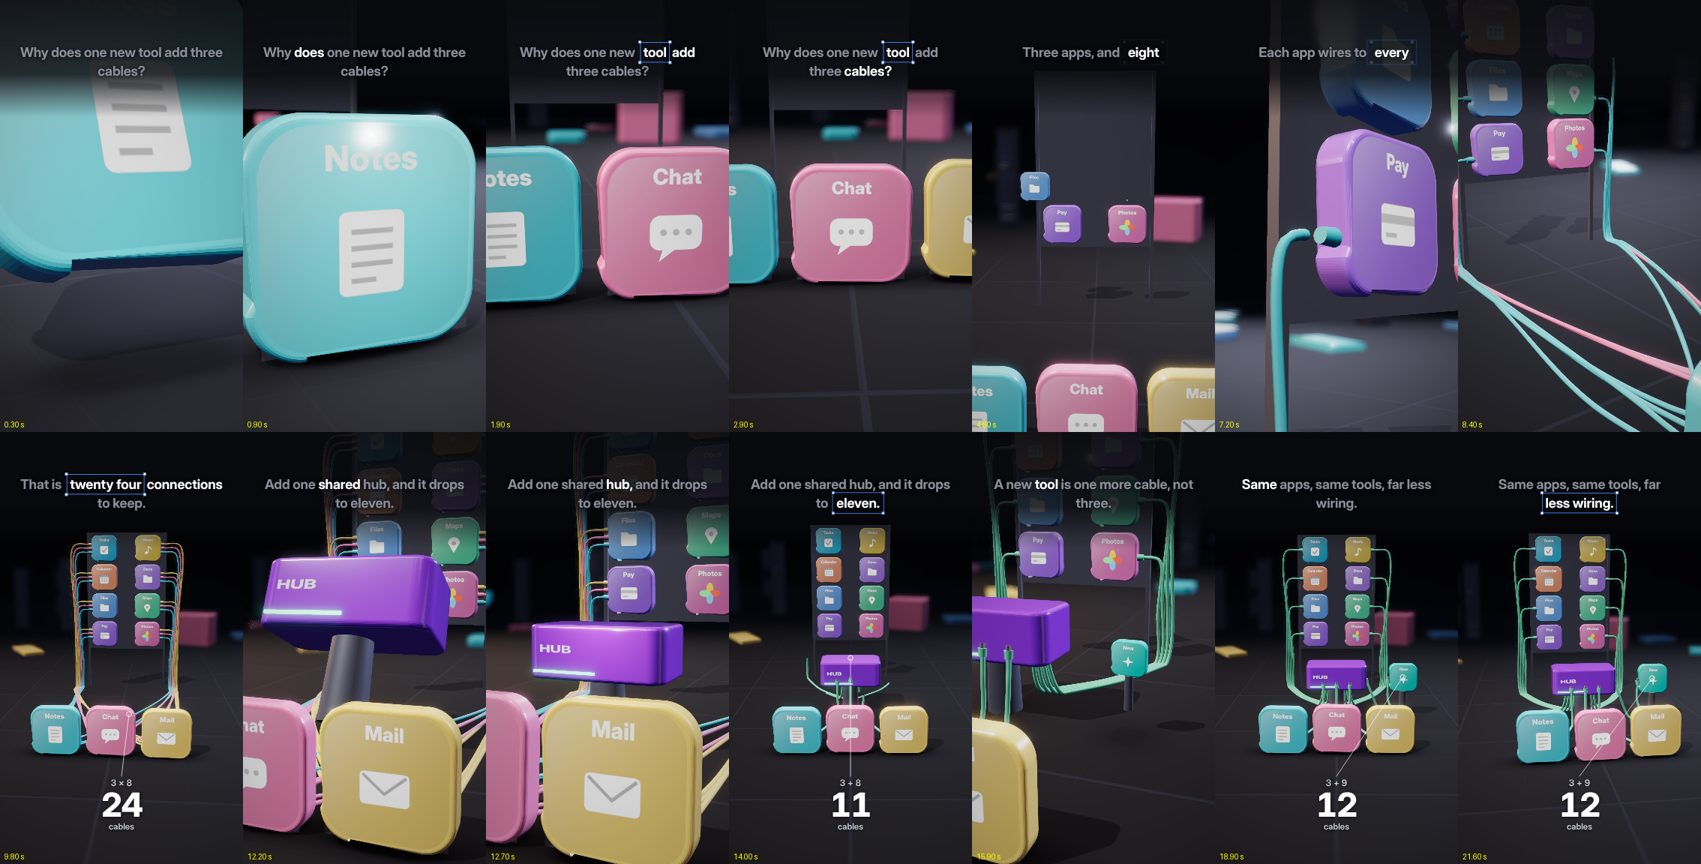
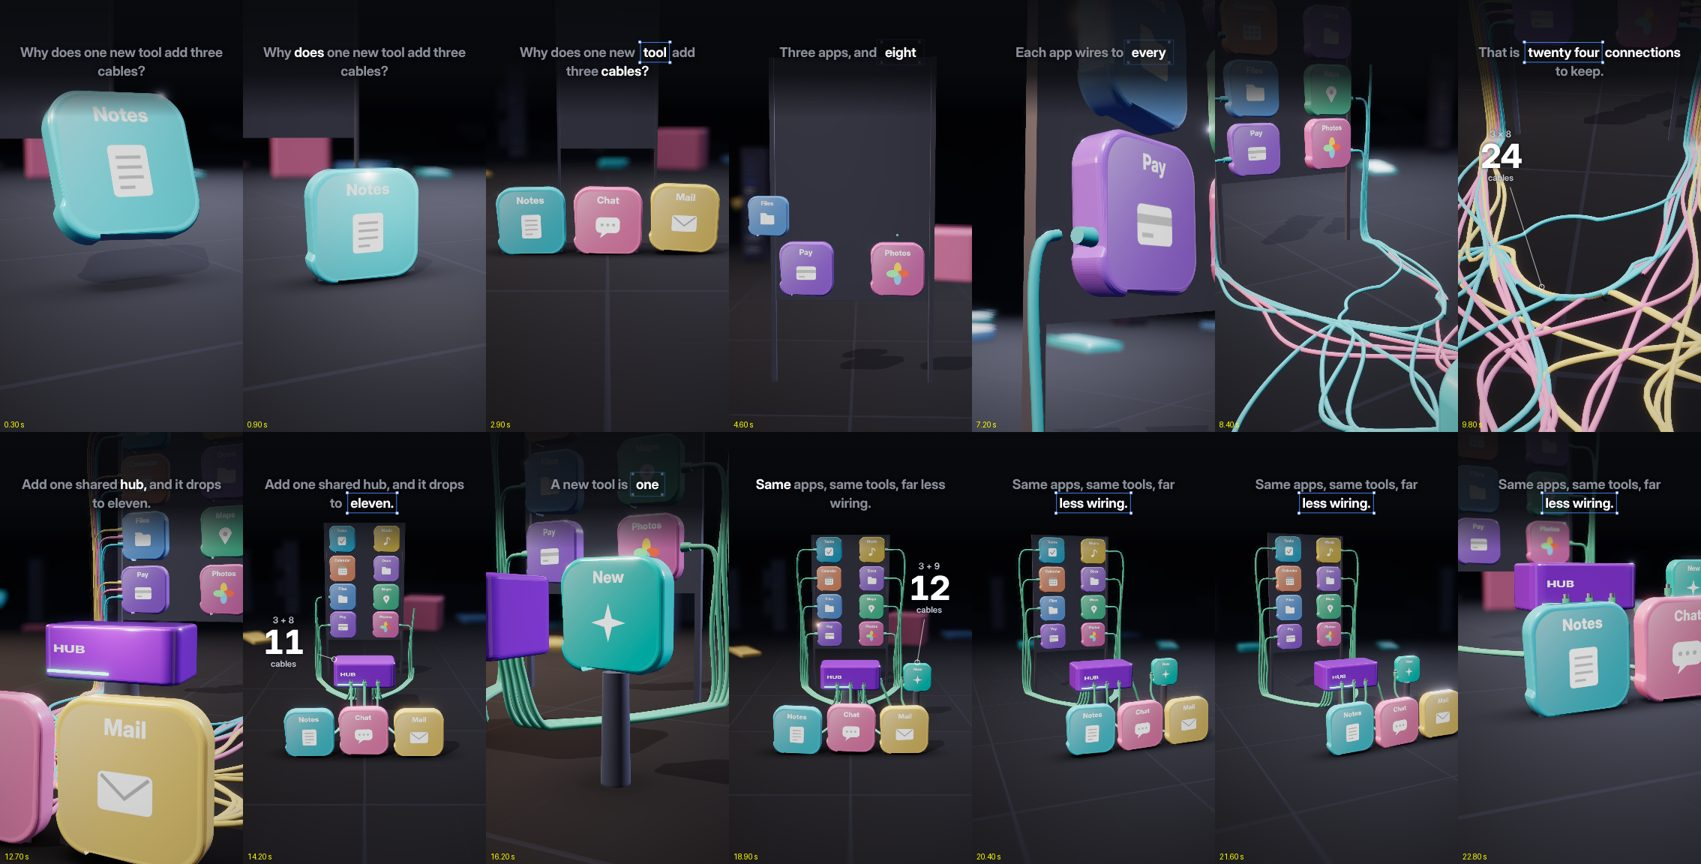
3D kit v7: plan changes done (GLOW and COLOUR fixes), task 10 started in Progress
Claude-Session: https://claude.ai/code/session_01YGjqKG8fxi32nbkbqv9qv3

diff --git a/techkit/scenes/gold3d-v7.html b/techkit/scenes/gold3d-v7.html
@@ -25,6 +25,8 @@ S.dof.aperture = 2.4; S.dof.focusRange = 7; S.dof.maxR = 20; S.bloom = .12;
 // light and grade (v6 measured: 8 of 46 frames had a pale floor, median luma over .40 at low angles): a darker floor, a weaker pool and stage glow
 const world = W3D.world(S, { seed: 21, props: 36, radius: [14, 40], heroZone: 17, maxZ: -14, floor: 0x4c4f58, poolPower: .1, palette: [0x6b3cff, 0x16b8d6, 0xff4f8a, 0xffb62e, 0x2f7bff, 0x22c55e] });
 world.floor.material.envMapIntensity = .1; world.floor.material.roughness = .93; world.floor.material.metalness = 0; if (world.glow) world.glow.visible = false;   // v7: a matte floor: at low angles the glossy floor caught the lights and read as a pale wash   // v7: no additive stage glow (it read as a pale floor at low angles)
+// background props are matte (v7: a glossy prop lying on the floor caught the light and bloomed, GLOW peak at 8.5 s)
+world.props.traverse((m) => { if (m.isMesh && m.material && 'roughness' in m.material) { m.material.roughness = Math.max(m.material.roughness, .75); if ('clearcoat' in m.material) m.material.clearcoat = 0; } });
 const L = W3D.lib;
 
 // ---------- the beats, all from the voice cues ----------
@@ -69,7 +71,7 @@ APPS.forEach((a, i) => TOOLS.forEach((t, j) => { const k = i * 8 + j, p0 = appPl
   // the dense path: every low point kept at least 1.0 from the pillar's axis, so the cable bends round it instead of through it
   const dense = new THREE.CatmullRomCurve3(pts.map((q) => V(...q)), false, 'centripetal').getSpacedPoints(220).map((q) => { const dx = q.x - HUB_P.x, dz = q.z - HUB_P.z, d = Math.hypot(dx, dz);
     if (q.y < .35 && d < 1.0) { const f = 1.0 / Math.max(d, .01); q.x = HUB_P.x + (d < .01 ? SIDE(j) * .01 : dx) * f; q.z = HUB_P.z + dz * f; } return q; });
-  tangle.push({ w: W3D.wire(S, dense, { color: a.c, radius: R, curve: 'catmullrom', tension: 0, floorY: 0, segments: 180 }), i, j, k }); }));
+  tangle.push({ w: W3D.wire(S, dense, { color: a.c, radius: R, curve: 'catmullrom', tension: 0, floorY: 0, segments: 180, tone: .52 }), i, j, k }); }));
 const hubW = [];
 APPS.forEach((a, i) => { const p0 = appPlug(i, 3.5), x1 = AX(i) * .3;
   hubW.push({ w: W3D.wire(S, [p0, [p0[0] * .95, FL, 1.4], [lerp(p0[0], x1, .6), FL, .2], [x1, FL, HUB_P.z + 1.0], [x1, HUB_P.y - .2, HUB_P.z + .8], [x1, HUB_P.y + .22, HUB_P.z + .76]], { color: 0x2fd27a, radius: .05, curve: 'centripetal', floorY: 0, segments: 140 }), k: i }); });
@@ -105,7 +107,7 @@ const SH = [
   { t: HUB_IN + .6, pos: [3.8, 2.8, 6.8], look: [0, 1.8, -2.2], fov: 46, mv: 'truck-in' },     // 7 the hub lands (big moment 3): low three-quarter
   { t: COLLAPSE[1] + .3, pos: [0, 7.4, 16.6], look: [0, 2.6, -3.0], fov: 52, mv: 'crane-up' }, // 8 the 24 collapse and 11 unroll: high wide
   { t: C.eleven + .6, pos: [-1.4, 6.2, 17.0], look: [0, 2.7, -3.1], fov: 52, mv: 'orbit' },     // 9 the clean picture, 11
-  { t: NEW_IN + .05, pos: [5.6, 1.95, 3.6], look: [2.75, 1.45, -1.7], fov: 42, mv: 'truck' },   // change 6: New is the subject (about 40 % of the width), the hub at the edge      // 10 the new tool and its one cable
+  { t: NEW_IN + .05, pos: [3.9, 3.2, 4.6], look: [2.75, 1.3, -1.7], fov: 42, mv: 'truck' },   // change 6: New is the subject (about 40 % of the width), the hub at the edge      // 10 the new tool and its one cable
   { t: PAY, pos: [0, 6.5, 17.0], look: [0, 2.8, -3.2], fov: 52, mv: 'pull-back' },             // 11 the payoff wide: 12
   { t: TOTAL - 1.9, pos: [-8.7, 6.0, 15.5], look: [0, 2.8, -3.2], fov: 52, mv: 'arc' },   // change 7: a 25 degree arc from about 19 s, then the dolly home      // 12 a small turn
   { t: TOTAL, ...START, mv: 'dolly-in' },                                                      // 13 home to the first frame (the loop)
@@ -136,7 +138,7 @@ function frame(t) {
   tangle.forEach((q) => { const u = q.k === 0 ? ease(prog(t, W1, W1 + 1.0)) : ease(prog(t, landT(q.k) - .55, landT(q.k)));
     const ret = ease(prog(t, COLLAPSE[0] + q.k * .012, COLLAPSE[0] + .5 + q.k * .012)); q.w.reveal(u * (1 - ret));
     const pk = prog(t, landT(q.k), landT(q.k) + (q.k === 0 ? .6 : .35)), pw = prog(t, WORST - .1 + q.k * .02, WORST + .35 + q.k * .02);
-    q.w.pulse(Math.max(pk, pw), t, q.k === 0 && pk > 0 && pk < 1 ? 1 : .45); });   // only the first cable's pulse carries a bead; the cascade and the sweep are soft   // big moment 2: one light sweep along all 24
+    q.w.pulse(Math.max(pk, pw), t, q.k === 0 && pk > 0 && pk < 1 ? 1 : .25); });   // only the first cable's pulse carries a bead; the cascade and the sweep are soft   // big moment 2: one light sweep along all 24
   // the hub: big moment 3 (falls a short way, scale overshoot, lands, light sweep); opaque from its first frame
   W3D.enter(hub, 'slam', prog(t, HUB_IN, HUB_IN + .85), { amp: .5 }); if (prog(t, HUB_IN, HUB_IN + .85) >= 1) hub.position.y = HUB_P.y + Math.sin(t * 1.1) * .02;
   hubW.forEach((q) => { const s0 = HUBW[0] + q.k * ((HUBW[1] - HUBW[0] - .5) / 10); q.w.reveal(ease(prog(t, s0, s0 + .5))); q.w.pulse(Math.max(prog(t, s0 + .5, s0 + .85), prog(t, PAY + 1.6 + q.k * .03, PAY + 2.0 + q.k * .03)), t, prog(t, PAY + 1.6 + q.k * .03, PAY + 2.0 + q.k * .03) > 0 ? .45 : 1); });

diff --git a/design/handoff.md b/design/handoff.md
@@ -243,6 +243,8 @@ Phone-width check on a local build, npm run check, merge. Then use it yourself f
 - 26 Nov 19:45 IST, main account plan critic: CHANGE FIRST: the cables, hub and floor are fixed, but the hook frame is an unreadable blur, the tangle does not look tangled, two shots miss their subject, leader lines cross tiles and the end is as still as v6's; seven exact changes in review/tech/showreel-tech-gold3d-v7.md, then a new stills sheet and one render (no second plan check needed).
 
 - 26 Nov 20:05 IST, owner (via the owner chat): make the plan critic's 7 changes first, refresh the stills sheet, then ONE render of v7; then "v7 ready for critic" and stop.
+- 26 Nov 21:48 IST, other account: task 10 started (the stable loop): the plan critic's seven changes are made: (1) Notes whole and sharp from frame 0, the dark floor around it (first half second median luma .25); (2) the pull-back ends with all three apps whole; (3) the wall fills about 70 % of the width, apps below the frame; (4) a real tangle: cables swing across each other on the floor, shot from behind the apps looking down; (5) every number beside its object with its leader through empty space (new leader check: no crossings at 24, 11, 12); (6) New is the subject (about 45 % of the width); (7) a 25 degree arc then the dolly home (last-4 s frame change 5.0, was 2.2). Also: matte background props and deeper cable colours (GLOW), the New shot reached from above the apps (COLOUR). Local checks with the real cue times running before render 1 of 2.
+
 ---
 
 # History: CLOSED (owner, 22 Nov 2026)
